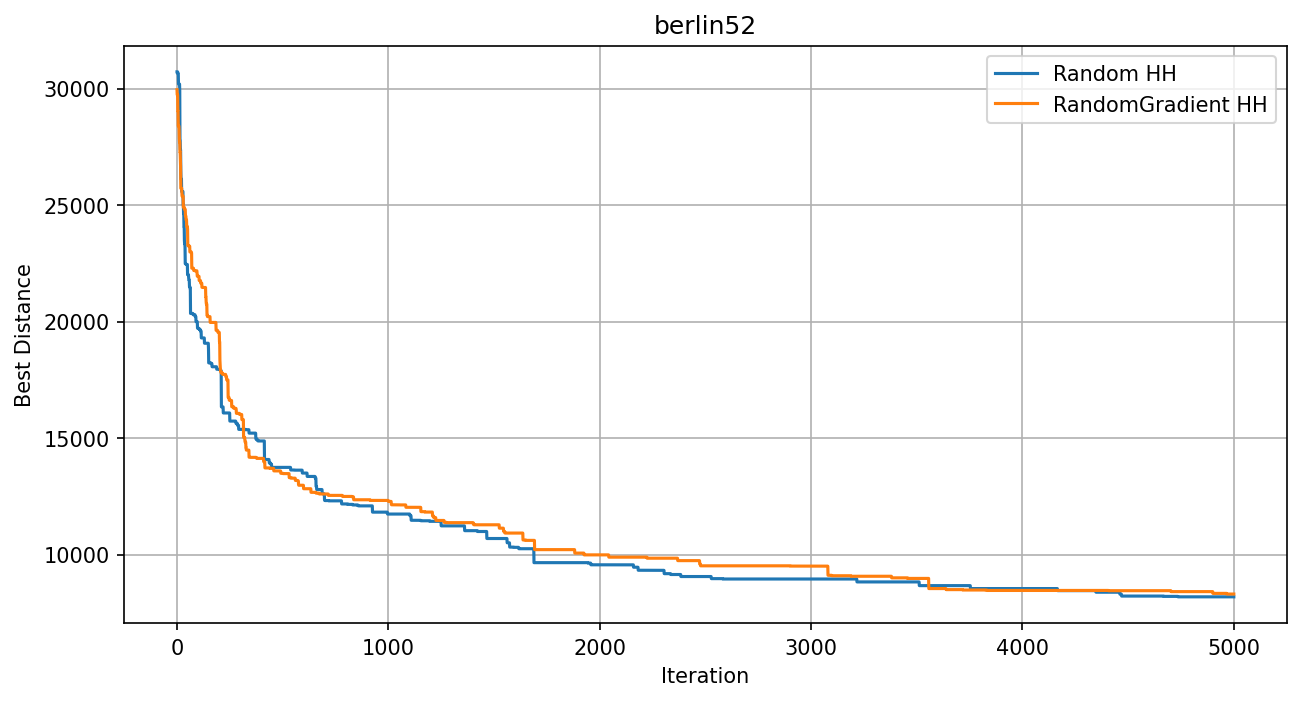
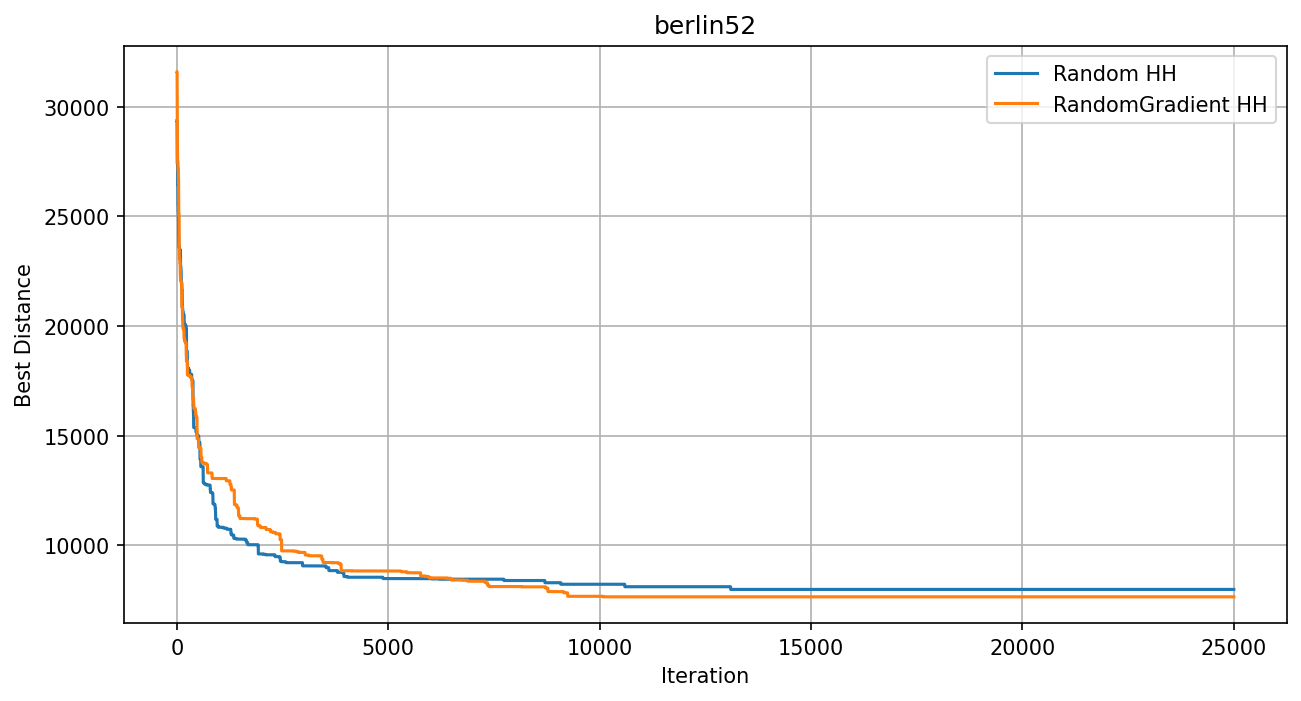
Added the objective function

diff --git a/main.py b/main.py
@@ -6,14 +6,12 @@ import matplotlib.pyplot as plt
 import tsplib95
 
 # Settings
-SEED = 55
-ITERATIONS = 5000
+SEED = 42
+ITERATIONS = 25000
 RUNS = 10
 DATASETS = [
     "berlin52",
-    "kroA100",
-    "pla33810",
-    "d15112"]
+    "kroA100"]
 
 
 
@@ -98,10 +96,12 @@ def initialize_stats():
         for name, _ in heuristics}
 
 
-def random_hyperheuristic(cities, distance_matrix, iterations=25000):
+def random_hyperheuristic(initial_solution, objective_fn, heuristics, iterations=25000):
+    # objective_fn(solution) -> float, always minimised.
+    # For maximisation problems (e.g. knapsack), pass a negated objective.
 
-    current = random_route(cities)
-    current_cost = route_distance(current, distance_matrix)
+    current = initial_solution[:]
+    current_cost = objective_fn(current)
     best = current[:]
     best_cost = current_cost
     history = [best_cost]
@@ -115,7 +115,7 @@ def random_hyperheuristic(cities, distance_matrix, iterations=25000):
         heuristic_history.append(heuristic_name)
         heuristic_stats[heuristic_name]["used"] += 1
         candidate = heuristic(current)
-        candidate_cost = route_distance(candidate, distance_matrix)
+        candidate_cost = objective_fn(candidate)
 
         # Accept only improving solutions
         if candidate_cost < current_cost:
@@ -140,7 +140,7 @@ def random_hyperheuristic(cities, distance_matrix, iterations=25000):
 
     runtime = time.time() - start_time
 
-    return {"best_route": best,            
+    return {"best_solution": best,
             "best_cost": best_cost,
             "history": history,
             "heuristic_stats": heuristic_stats,
@@ -149,10 +149,12 @@ def random_hyperheuristic(cities, distance_matrix, iterations=25000):
 
 
 
-def random_gradient(cities, distance_matrix, iterations=25000):
+def random_gradient(initial_solution, objective_fn, heuristics, iterations=25000):
+    # objective_fn(solution) is always minimised.
+    # For maximisation problems like knapsack, pass a negated objective.
 
-    current = random_route(cities)
-    current_cost = route_distance(current, distance_matrix)
+    current = initial_solution[:]
+    current_cost = objective_fn(current)
 
     best = current[:]
     best_cost = current_cost
@@ -168,7 +170,7 @@ def random_gradient(cities, distance_matrix, iterations=25000):
         heuristic_history.append(heuristic_name)
         heuristic_stats[heuristic_name]["used"] += 1
         candidate = heuristic(current)
-        candidate_cost = route_distance(candidate, distance_matrix)
+        candidate_cost = objective_fn(candidate)
 
         # Improvement found: keep heuristic
         if candidate_cost < current_cost:
@@ -196,7 +198,7 @@ def random_gradient(cities, distance_matrix, iterations=25000):
 
     runtime = time.time() - start_time
 
-    return {"best_route": best,
+    return {"best_solution": best,
             "best_cost": best_cost,
             "history": history,
             "heuristic_stats": heuristic_stats,
@@ -211,6 +213,10 @@ for dataset_name in DATASETS:
     print(f"Dataset: {dataset_name}")
     problem, cities, distance_matrix = load_problem(dataset_name)
 
+    # TSP objective: minimise total route distance
+    def tsp_objective(route):
+        return route_distance(route, distance_matrix)
+
     random_results = []
     rg_results = []
 
@@ -221,14 +227,21 @@ for dataset_name in DATASETS:
         random.seed(SEED + run)
         np.random.seed(SEED + run)
 
+        initial = random_route(cities)
+
         random_result = random_hyperheuristic(
-            cities,
-            distance_matrix,
+            initial,
+            tsp_objective,
+            heuristics,
             ITERATIONS)
 
+        random.seed(SEED + run)
+        np.random.seed(SEED + run)
+
         rg_result = random_gradient(
-            cities,
-            distance_matrix,
+            initial,
+            tsp_objective,
+            heuristics,
             ITERATIONS)
 
         random_results.append(random_result)
